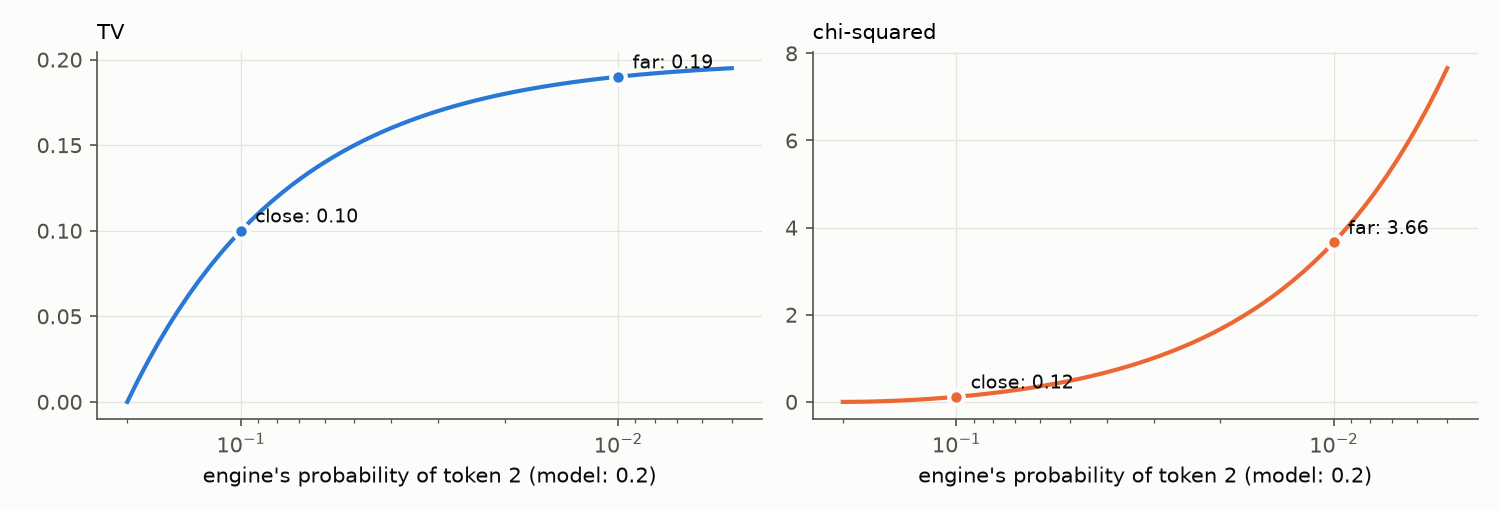
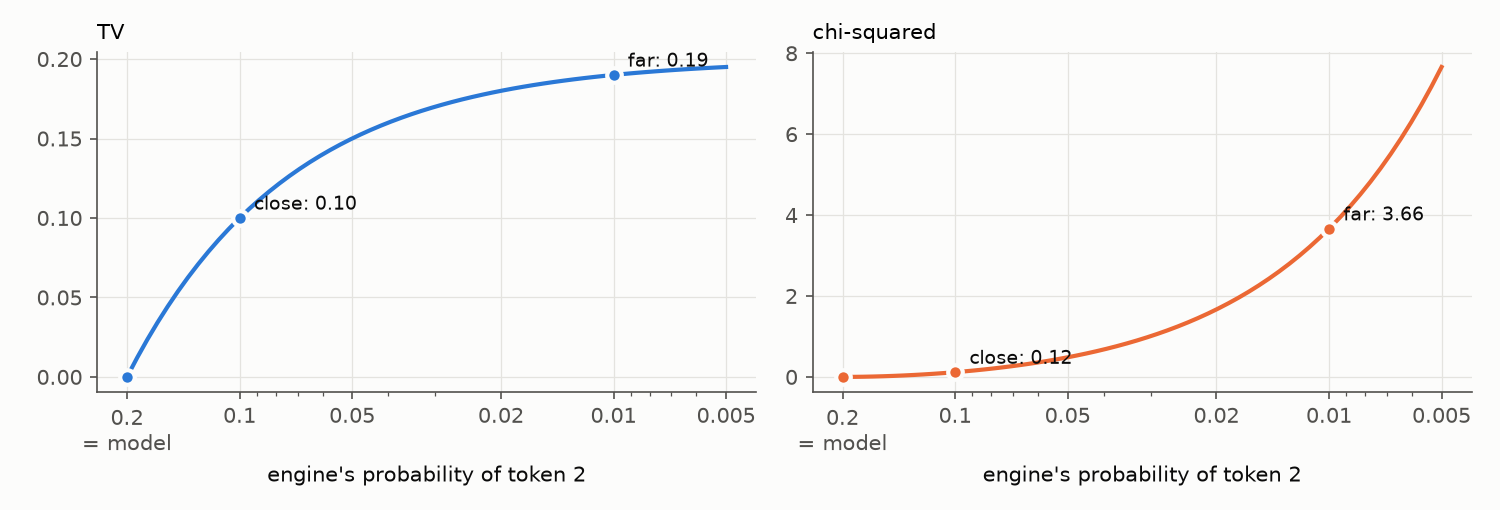
Figure 4: mark the engine = model point (TV and chi-squared are 0 there)

diff --git a/rl-corrections/bias_variance_figs.py b/rl-corrections/bias_variance_figs.py
@@ -188,8 +188,10 @@ fig, axes = plt.subplots(1, 2, figsize=(10, 3.4), sharex=True)
 for ax, y, color, name in zip(axes, [tv, chi2], [BLUE, ORANGE], ['TV', 'chi-squared']):
   ax.plot(e.numpy(), y.numpy(), color=color, linewidth=2)
   ax.set_xscale('log')
+  ax.set_xticks([0.2, 0.1, 0.05, 0.02, 0.01, 0.005], ['0.2\n= model', '0.1', '0.05', '0.02', '0.01', '0.005'])
+  ax.plot(0.2, 0, 'o', color=color, markersize=7, markeredgecolor='#fcfcfb', markeredgewidth=2)   # engine = model: 0
   ax.set_title(name, fontsize=10, loc='left')
-  ax.set_xlabel("engine's probability of token 2 (model: 0.2)")
+  ax.set_xlabel("engine's probability of token 2")
   for label, pe in ENGINES.items():
     exact_y = 0.5 * (p - pe).abs().sum() if name == 'TV' else (p ** 2 / pe).sum() - 1
     ax.plot(pe[2].item(), exact_y.item(), 'o', color=color, markersize=7, markeredgecolor='#fcfcfb', markeredgewidth=2)
